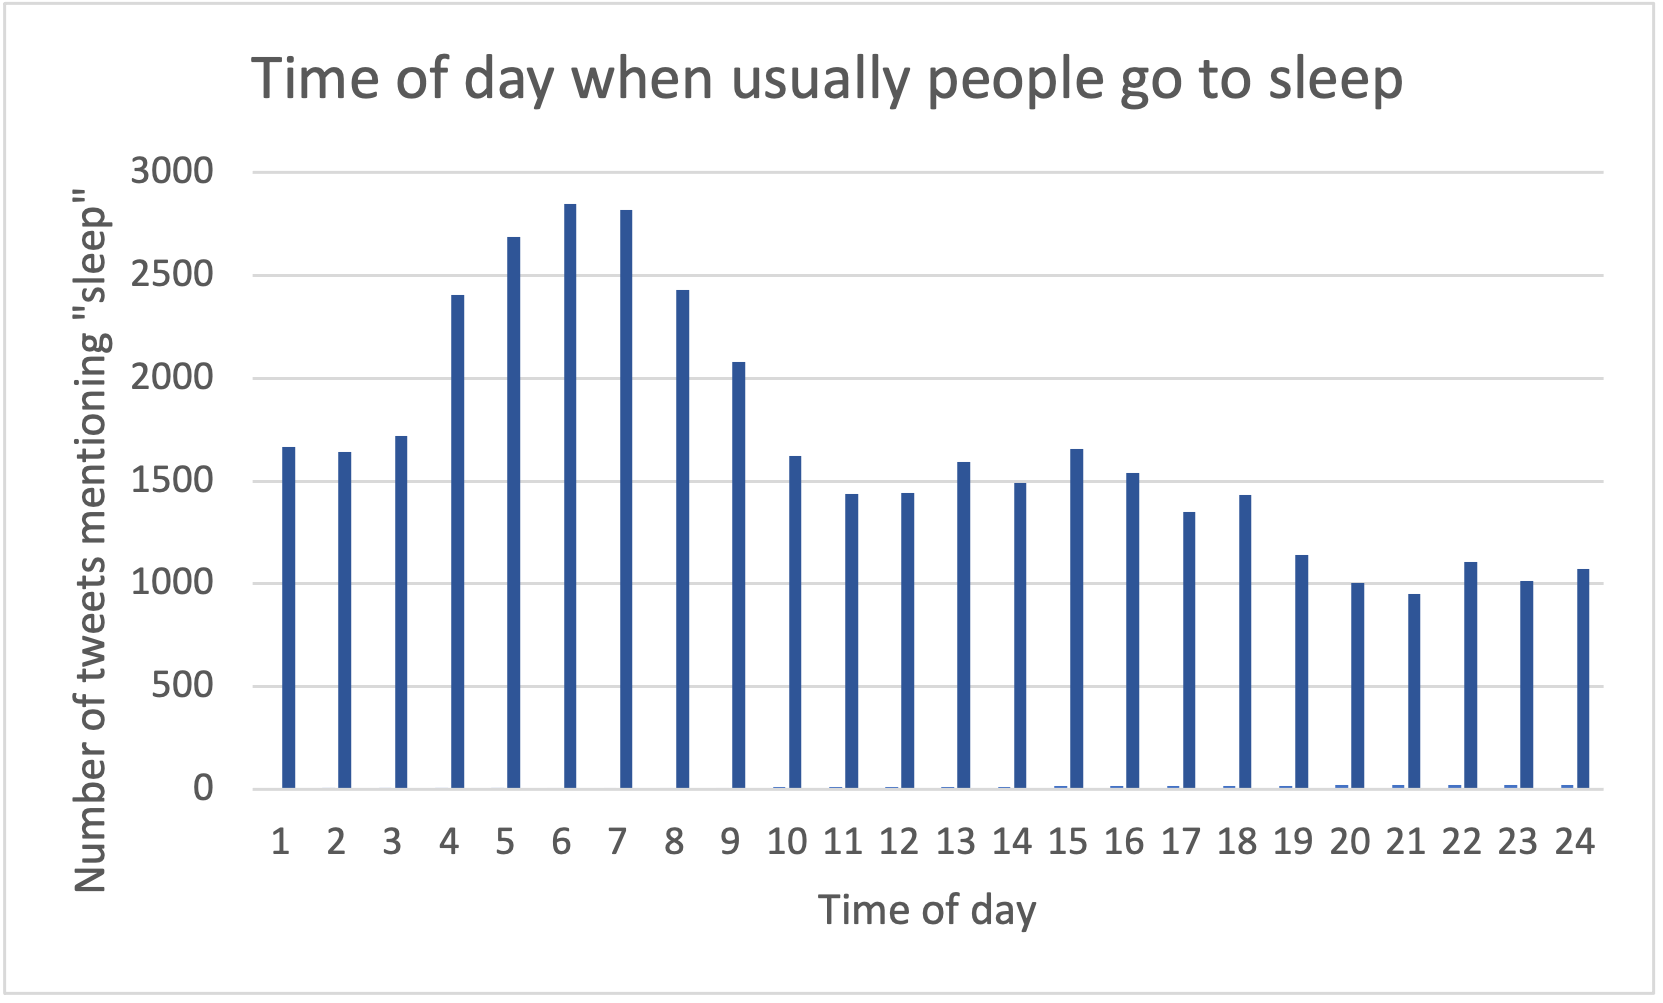
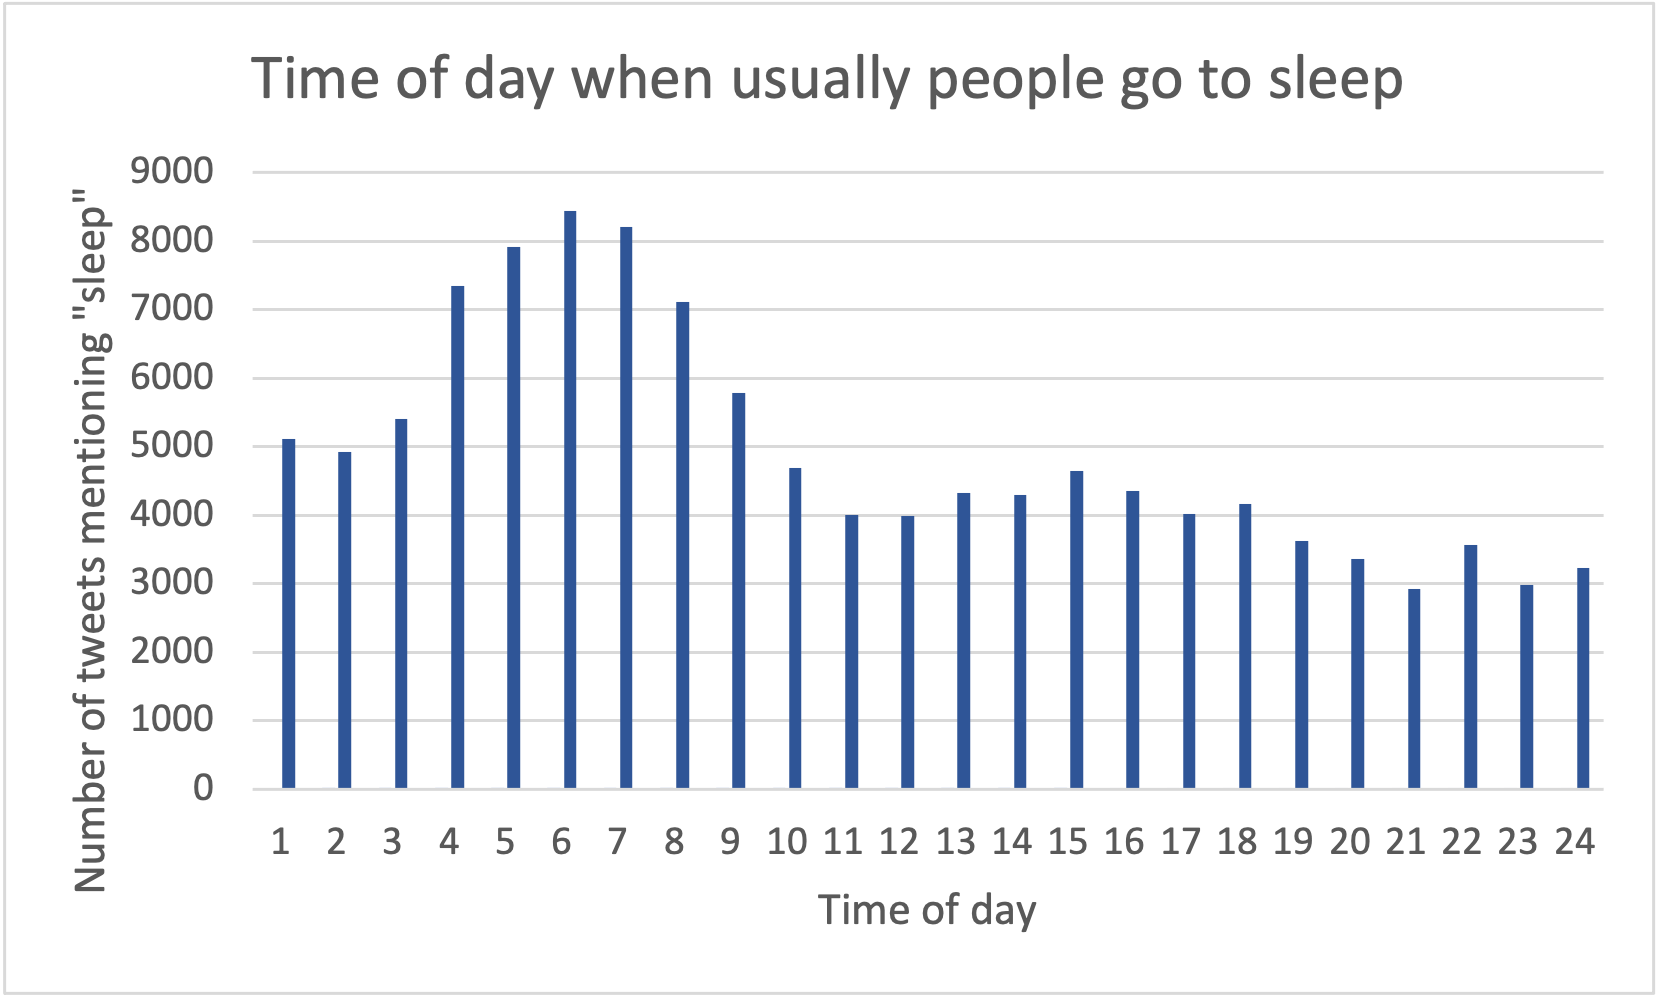
update with word like sleeping, sleepy

diff --git a/MP_4/WordCount.java b/MP_4/WordCount.java
@@ -29,7 +29,7 @@ public class WordCount {
             } else if (line.startsWith("W")) {
                 String[] content = line.trim().split(" ");
                 for (String word : content) {
-                    if (word.equals("sleep")) {
+                    if (word.toLowerCase().contains("sleep")) {
                         context.write(new IntWritable(hour), new IntWritable(1));
                         break;
                     }
